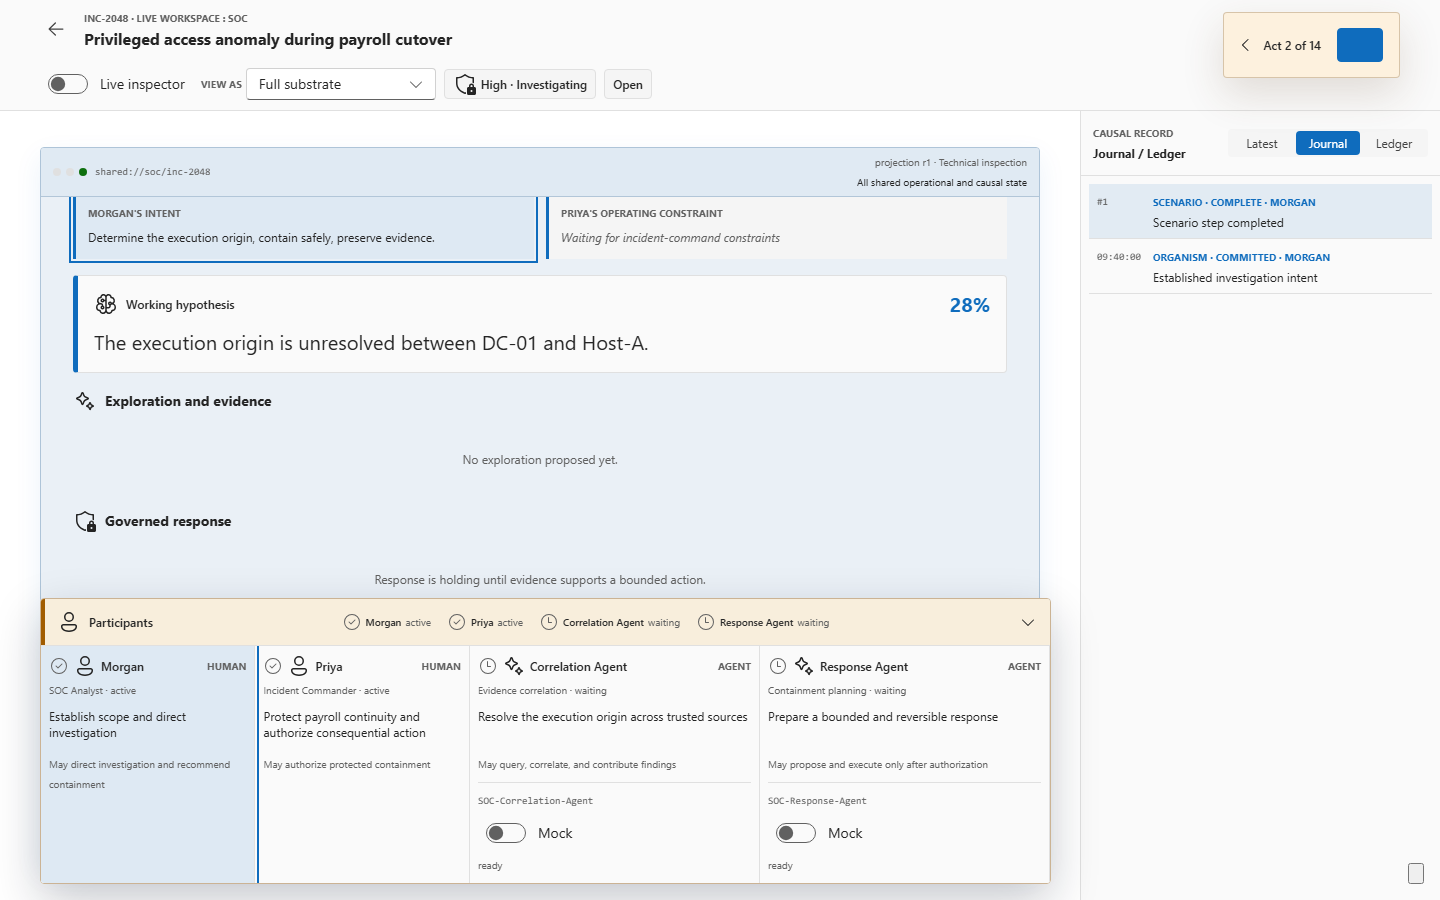
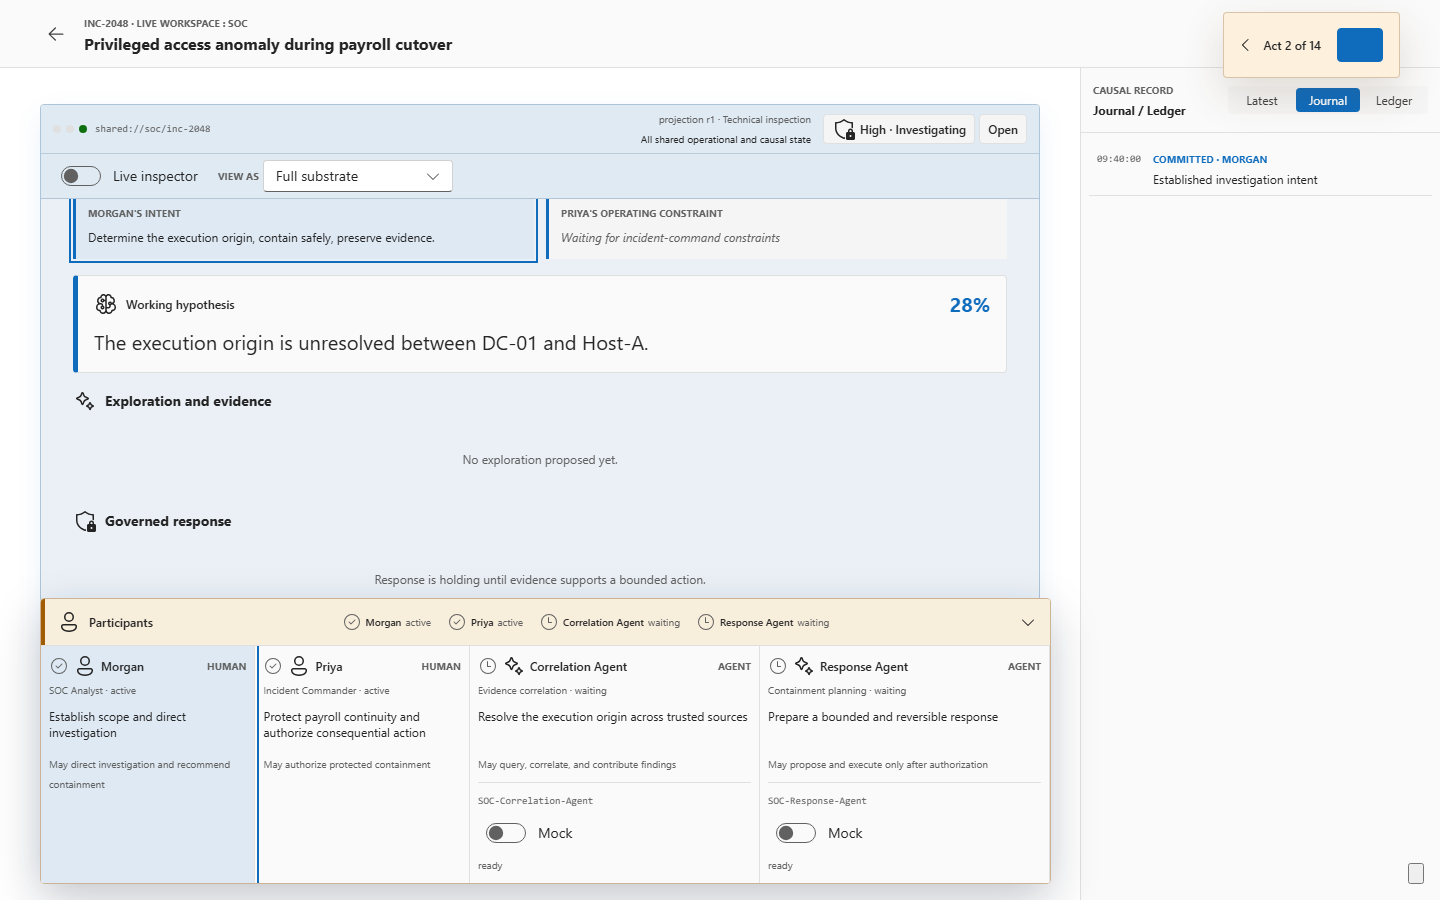
Move SOC controls into substrate chrome

Changed region(s): [[0.0, 0.0, 0.9688, 0.3111]]

diff --git a/samples/bundles/live-workspace-soc/projection_views/styles.ts b/samples/bundles/live-workspace-soc/projection_views/styles.ts
@@ -18,7 +18,7 @@ export const useStyles = makeStyles({
     zIndex: 10,
     display: "grid",
     gridTemplateColumns: "minmax(0, 1fr)",
-    gridTemplateRows: "auto auto",
+    gridTemplateRows: "auto",
     alignItems: "center",
     gap: tokens.spacingHorizontalL,
     minHeight: "68px",
@@ -31,23 +31,16 @@ export const useStyles = makeStyles({
   identityCopy: { minWidth: 0 },
   eyebrow: { color: "var(--muted)", fontSize: tokens.fontSizeBase100, fontWeight: tokens.fontWeightBold, textTransform: "uppercase" },
   title: { margin: 0, fontSize: tokens.fontSizeBase400, lineHeight: tokens.lineHeightBase400, overflowWrap: "anywhere" },
-  controls: { width: "100%", display: "flex", alignItems: "center", justifyContent: "flex-start", gap: tokens.spacingHorizontalS, flexWrap: "wrap" },
   workspaceModeSwitch: { minWidth: "150px" },
   viewpointControl: { display: "inline-flex", alignItems: "center", gap: tokens.spacingHorizontalXS },
   viewpointLabel: { color: "var(--muted)", fontSize: tokens.fontSizeBase100, fontWeight: tokens.fontWeightBold, textTransform: "uppercase" },
   pill: { display: "inline-flex", alignItems: "center", gap: tokens.spacingHorizontalXS, minHeight: "30px", padding: `0 ${tokens.spacingHorizontalS}`, border: `1px solid var(--line)`, borderRadius: tokens.borderRadiusMedium, backgroundColor: "var(--panel-2)", fontSize: tokens.fontSizeBase200, fontWeight: tokens.fontWeightSemibold },
   layout: { minHeight: 0, height: "100%", display: "grid", gridTemplateColumns: "minmax(0, 1fr) minmax(300px, 360px)", gridTemplateRows: "minmax(0, 1fr)", overflow: "hidden", "@media (max-width: 1040px)": { height: "auto", gridTemplateColumns: "1fr", gridTemplateRows: "auto", overflow: "visible" } },
-  workColumn: { minWidth: 0, minHeight: 0, height: "100%", padding: `clamp(18px, 3vw, 36px) clamp(16px, 3vw, 40px)`, overflow: "hidden", "@media (max-width: 1040px)": { height: "auto", padding: `clamp(18px, 3vw, 36px) clamp(16px, 3vw, 40px)`, overflow: "visible" } },
+  workColumn: { minWidth: 0, minHeight: 0, height: "100%", padding: `12px 12px clamp(18px, 3vw, 36px) clamp(16px, 3vw, 40px)`, overflow: "hidden", "@media (max-width: 1040px)": { height: "auto", padding: `10px 10px 18px 14px`, overflow: "visible" } },
   shared: { minWidth: 0, minHeight: 0, height: "100%", display: "grid", gridTemplateRows: "auto minmax(0, 1fr)", border: `1px solid color-mix(in srgb, var(--accent) 24%, var(--line))`, borderRadius: tokens.borderRadiusMedium, backgroundColor: "color-mix(in srgb, var(--accent) 7%, var(--panel))", boxShadow: "0 10px 28px color-mix(in srgb, var(--accent) 8%, transparent)", overflow: "hidden", "@media (max-width: 1040px)": { height: "auto", display: "block" } },
-  consoleChrome: { display: "grid", gridTemplateColumns: "minmax(180px, 1fr) minmax(220px, auto)", alignItems: "center", gap: tokens.spacingHorizontalM, minHeight: "44px", padding: `${tokens.spacingVerticalXS} ${tokens.spacingHorizontalM}`, borderBottom: `1px solid color-mix(in srgb, var(--accent) 22%, var(--line))`, backgroundColor: "color-mix(in srgb, var(--accent) 11%, var(--panel))", "@media (max-width: 760px)": { gridTemplateColumns: "1fr", alignItems: "start" } },
-  consolePath: { display: "flex", alignItems: "center", gap: tokens.spacingHorizontalS, minWidth: 0, color: "var(--muted)", fontFamily: tokens.fontFamilyMonospace, fontSize: tokens.fontSizeBase100 },
-  consoleLights: { display: "inline-flex", gap: "5px", flexShrink: 0 },
-  consoleLight: { width: "8px", height: "8px", borderRadius: "50%", backgroundColor: "var(--line)" },
-  consoleLightLive: { backgroundColor: "var(--good)" },
-  consoleUri: { overflow: "hidden", textOverflow: "ellipsis", whiteSpace: "nowrap" },
+  consoleChrome: { minHeight: "52px", display: "flex", alignItems: "center", gap: tokens.spacingHorizontalM, padding: `${tokens.spacingVerticalS} ${tokens.spacingHorizontalM}`, borderBottom: `1px solid color-mix(in srgb, var(--accent) 22%, var(--line))`, backgroundColor: "color-mix(in srgb, var(--accent) 11%, var(--panel))", flexWrap: "wrap" },
   contextSelect: { minWidth: "190px" },
-  contextMeta: { minWidth: 0, color: "var(--muted)", fontSize: tokens.fontSizeBase100, textAlign: "right", "@media (max-width: 760px)": { textAlign: "left" } },
-  contextFocus: { display: "block", color: "var(--text)", overflowWrap: "anywhere" },
+  consoleStatus: { marginLeft: "auto", display: "flex", justifyContent: "flex-end", gap: tokens.spacingHorizontalXS, flexWrap: "wrap", "@media (max-width: 760px)": { width: "100%", marginLeft: 0, justifyContent: "flex-start" } },
   sharedViewport: { minHeight: 0, padding: `clamp(18px, 3vw, 32px)`, paddingBottom: "calc(clamp(18px, 3vw, 32px) + 50px)", scrollPaddingBottom: "50px" },
   sharedViewportContent: { display: "grid", alignContent: "start", gap: tokens.spacingVerticalL },
   contextProjection: { width: "100%", minWidth: 0, display: "grid", alignContent: "start", gap: tokens.spacingVerticalL, margin: "0 auto" },

diff --git a/samples/bundles/live-workspace-soc/projection_views/SubstrateChrome.tsx b/samples/bundles/live-workspace-soc/projection_views/SubstrateChrome.tsx
@@ -1,37 +1,65 @@
-import { mergeClasses } from "@fluentui/react-components";
+import React from "react";
+import { Select } from "@fluentui/react-components";
+import { ShieldLock24Regular } from "@fluentui/react-icons";
 import type { ProjectionView } from "@gik/react";
 import { GrowingContainer } from "../../../../adapters/react/src/primitives/registry";
 import { SOC_BLUEPRINT_CONTEXTS } from "../../../profiles/live-workspace-soc/compile";
-import type { SocPlane } from "../navigation";
+import { readSocNavigation, writeSocNavigation, type SocPlane } from "../navigation";
 import { useStyles } from "./styles";
 import type { Incident, Presentation } from "./types";
 
-export const SubstrateChrome: ProjectionView = ({ node, children }) => {
+export const SubstrateChrome: ProjectionView = ({ node, emit, children }) => {
   const styles = useStyles();
   const incident = node.props.incident as unknown as Incident;
   const presentation = node.props.presentation as unknown as Presentation;
   const consolePlane = String(node.props.consolePlane ?? "runtime") as SocPlane;
-  const selectedContext = presentation.contexts.find((item) => item.id === presentation.selectedContext) ?? presentation.contexts[0];
-  const blueprintContext = SOC_BLUEPRINT_CONTEXTS.find((item) => item.id === presentation.selectedContext) ?? SOC_BLUEPRINT_CONTEXTS[0];
+  const [inspectorMode, ...faces] = React.Children.toArray(children);
+  const validContextIds = SOC_BLUEPRINT_CONTEXTS.map((item) => item.id);
+  const initialNavigationRef = React.useRef(readSocNavigation(window.location.search, validContextIds));
+  const emitRef = React.useRef(emit);
+  const skipNavigationSyncRef = React.useRef(true);
+  emitRef.current = emit;
+
+  React.useEffect(() => {
+    const requested = initialNavigationRef.current;
+    if (requested.context && requested.context !== presentation.selectedContext) {
+      emitRef.current("setPresentationContext", { contextId: requested.context });
+    }
+    if (requested.plane !== consolePlane) {
+      emitRef.current("setConsolePlane", { plane: requested.plane });
+    }
+  }, []);
+
+  React.useEffect(() => {
+    if (skipNavigationSyncRef.current) {
+      skipNavigationSyncRef.current = false;
+      return;
+    }
+    window.history.replaceState(null, "", writeSocNavigation(window.location.href, consolePlane, presentation.selectedContext));
+  }, [consolePlane, presentation.selectedContext]);
 
   return (
     <section className={styles.shared} aria-label="Shared incident substrate">
       <header className={styles.consoleChrome}>
-        <div className={styles.consolePath}>
-          <span className={styles.consoleLights} aria-hidden="true">
-            <i className={styles.consoleLight} />
-            <i className={styles.consoleLight} />
-            <i className={mergeClasses(styles.consoleLight, styles.consoleLightLive)} />
-          </span>
-          <span className={styles.consoleUri}>{consolePlane === "runtime" ? "shared" : "blueprint"}://soc/{consolePlane === "runtime" ? incident.id.toLowerCase() : "live-workspace-soc/profile.json"}</span>
-        </div>
-        <div className={styles.contextMeta}>
-          {consolePlane === "runtime" ? `projection r${presentation.revision} · ${selectedContext.audience}` : "4 tiers · 3 lowering recipes"}
-          <span className={styles.contextFocus}>{consolePlane === "runtime" ? selectedContext.focus : `${blueprintContext.role} · ${blueprintContext.device} · ${blueprintContext.task}`}</span>
+        <div className={styles.workspaceModeSwitch}>{inspectorMode}</div>
+        <label className={styles.viewpointControl}>
+          <span className={styles.viewpointLabel}>View as</span>
+          <Select
+            className={styles.contextSelect}
+            aria-label="View shared substrate as"
+            value={presentation.selectedContext}
+            onChange={(_, data) => emit("setPresentationContext", { contextId: data.value })}
+          >
+            {presentation.contexts.map((item) => <option key={item.id} value={item.id}>{item.label}</option>)}
+          </Select>
+        </label>
+        <div className={styles.consoleStatus}>
+          <span className={styles.pill}><ShieldLock24Regular />{incident.severity} · {incident.status}</span>
+          <span className={styles.pill}>{incident.governance}</span>
         </div>
       </header>
       <GrowingContainer className={styles.sharedViewport} ariaLabel="Shared substrate content">
-        <div className={styles.sharedViewportContent}>{children}</div>
+        <div className={styles.sharedViewportContent}>{faces}</div>
       </GrowingContainer>
     </section>
   );

diff --git a/samples/bundles/live-workspace-soc/projection_views/WorkspaceHeader.tsx b/samples/bundles/live-workspace-soc/projection_views/WorkspaceHeader.tsx
@@ -1,10 +1,7 @@
-import React from "react";
-import { Button, Select } from "@fluentui/react-components";
-import { ArrowLeft24Regular, ShieldLock24Regular } from "@fluentui/react-icons";
+import { Button } from "@fluentui/react-components";
+import { ArrowLeft24Regular } from "@fluentui/react-icons";
 import type { ProjectionView } from "@gik/react";
-import { SOC_BLUEPRINT_CONTEXTS } from "../../../profiles/live-workspace-soc/compile";
-import { readSocNavigation, writeSocNavigation, type SocPlane } from "../navigation";
-import type { Incident, Presentation } from "./types";
+import type { Incident } from "./types";
 import { useStyles } from "./styles";
 
 function openOverview() {
@@ -13,34 +10,9 @@ function openOverview() {
   window.location.href = url.toString();
 }
 
-export const WorkspaceHeader: ProjectionView = ({ node, emit, children }) => {
+export const WorkspaceHeader: ProjectionView = ({ node }) => {
   const styles = useStyles();
   const incident = node.props.incident as unknown as Incident;
-  const presentation = node.props.presentation as unknown as Presentation;
-  const consolePlane = String(node.props.consolePlane ?? "runtime") as SocPlane;
-  const validContextIds = SOC_BLUEPRINT_CONTEXTS.map((item) => item.id);
-  const initialNavigationRef = React.useRef(readSocNavigation(window.location.search, validContextIds));
-  const emitRef = React.useRef(emit);
-  const skipNavigationSyncRef = React.useRef(true);
-  emitRef.current = emit;
-
-  React.useEffect(() => {
-    const requested = initialNavigationRef.current;
-    if (requested.context && requested.context !== presentation.selectedContext) {
-      emitRef.current("setPresentationContext", { contextId: requested.context });
-    }
-    if (requested.plane !== consolePlane) {
-      emitRef.current("setConsolePlane", { plane: requested.plane });
-    }
-  }, []);
-
-  React.useEffect(() => {
-    if (skipNavigationSyncRef.current) {
-      skipNavigationSyncRef.current = false;
-      return;
-    }
-    window.history.replaceState(null, "", writeSocNavigation(window.location.href, consolePlane, presentation.selectedContext));
-  }, [consolePlane, presentation.selectedContext]);
 
   return (
     <header className={styles.commandBar}>
@@ -50,22 +22,6 @@ export const WorkspaceHeader: ProjectionView = ({ node, emit, children }) => {
           <div className={styles.eyebrow}>{incident.id} · Live Workspace : SOC</div>
           <h1 className={styles.title}>{incident.title}</h1>
         </div>
-      </div>
-      <div className={styles.controls}>
-        <div className={styles.workspaceModeSwitch}>{children}</div>
-        <label className={styles.viewpointControl}>
-          <span className={styles.viewpointLabel}>View as</span>
-          <Select
-            className={styles.contextSelect}
-            aria-label="View shared substrate as"
-            value={presentation.selectedContext}
-            onChange={(_, data) => emit("setPresentationContext", { contextId: data.value })}
-          >
-            {presentation.contexts.map((item) => <option key={item.id} value={item.id}>{item.label}</option>)}
-          </Select>
-        </label>
-        <span className={styles.pill}><ShieldLock24Regular />{incident.severity} · {incident.status}</span>
-        <span className={styles.pill}>{incident.governance}</span>
       </div>
     </header>
   );

diff --git a/samples/profiles/live-workspace-soc/blueprint.test.ts b/samples/profiles/live-workspace-soc/blueprint.test.ts
@@ -97,7 +97,7 @@ test("agent contexts lower into context, state, request, response, and governed-
   }
 });
 
-test("the workspace body owns substrate chrome with document-gated inspector faces", () => {
+test("substrate chrome owns projection controls and document-gated inspector faces", () => {
   const body = runtimeDocument.payload.root.edges.children.find((child) => child.id === "soc-workspace");
   assert.ok(body);
   const chrome = body.edges.children[0];
@@ -105,6 +105,7 @@ test("the workspace body owns substrate chrome with document-gated inspector fac
   assert.deepEqual(
     chrome.edges.children.map((child) => [child.capability, child.edges.gate]),
     [
+      ["fluent:switch", undefined],
       ["soc:blueprint-inspector", "soc.consolePlane = 'blueprint'"],
       ["soc:runtime-projection", "soc.consolePlane = 'runtime'"],
     ]
